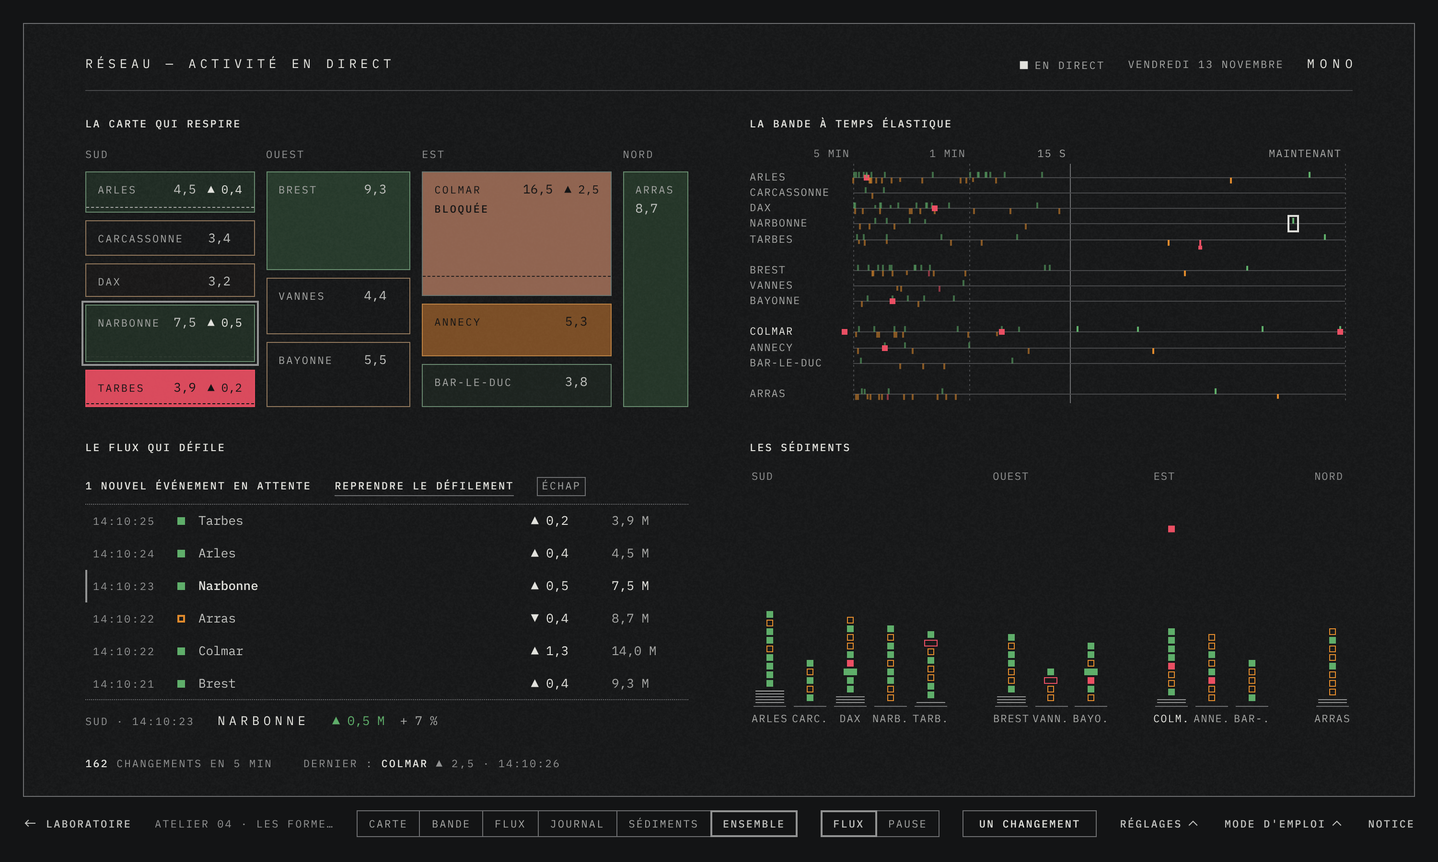
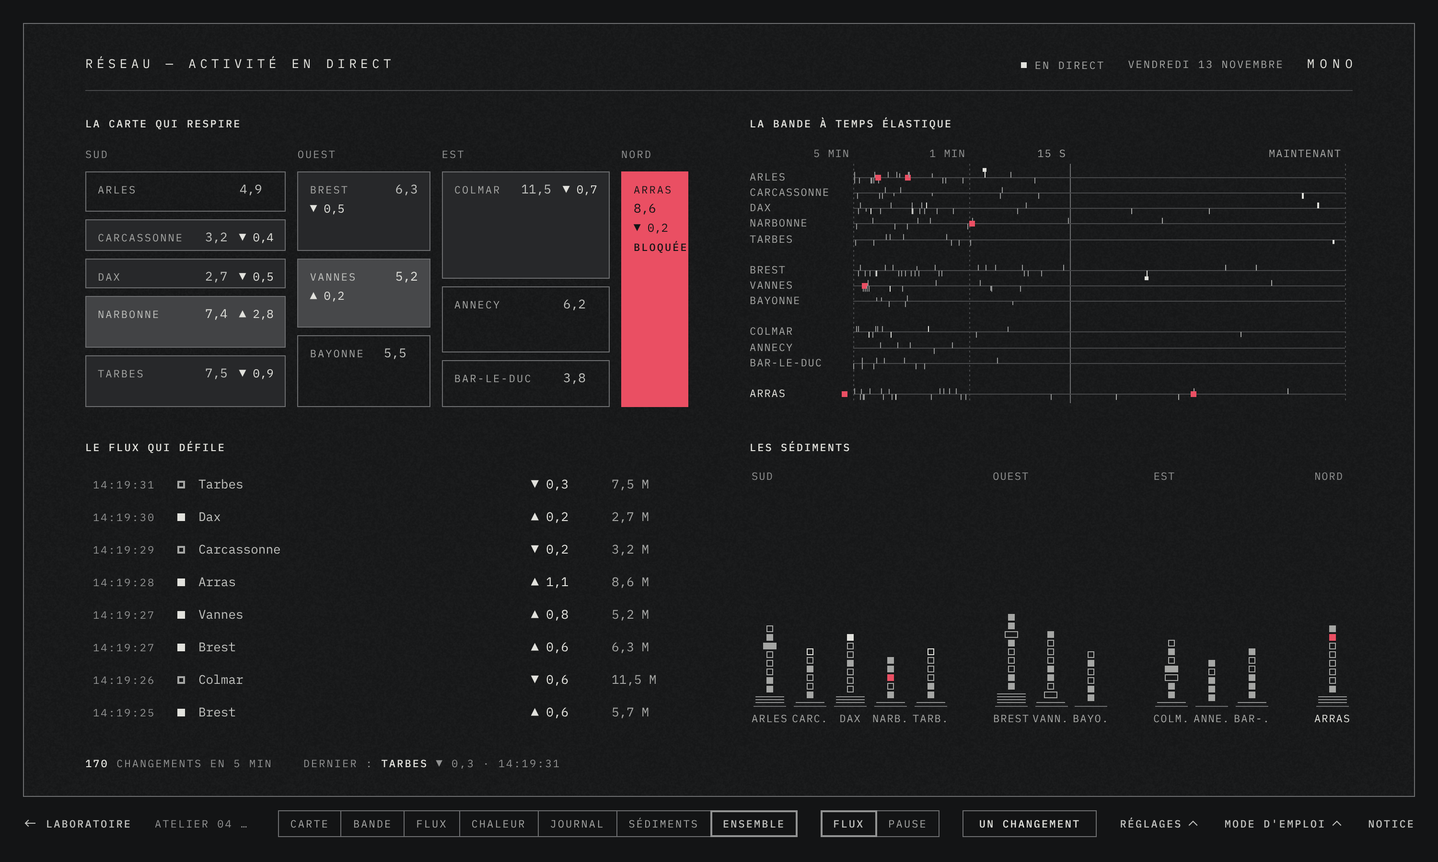
Expérience 04 : teinte du système par défaut, plus de pointillés, matrice de chaleur (D-106)
La carte emploie les tons du système par paliers nets et le signal pour le seul
blocage ; les traits tiretés sont retirés, le mouvement net est écrit dans la
case. Sixième forme : une matrice de chaleur agence × temps.

Claude-Session: https://claude.ai/code/session_01Jzhjh4Bm92CMpkoPPaRiQr

diff --git a/catalogue/assets/labo-formes.js b/catalogue/assets/labo-formes.js
@@ -27,7 +27,7 @@
   const seed = () => { events = []; const now = Date.now(); let t = now - 300000; while (t < now - 1500) { events.push(gen(t, false)); t += 600 + Math.random() * 2600; } };
   const canvas = (el) => { const c = document.createElement('canvas'); c.style.cssText = 'display: block; width: 100%; height: 100%'; el.append(c); const ctx = c.getContext('2d'); const fit = () => { const r = c.getBoundingClientRect(), d = devicePixelRatio || 1; c.width = Math.max(1, Math.round(r.width * d)); c.height = Math.max(1, Math.round(r.height * d)); ctx.setTransform(d, 0, 0, d, 0, 0); c.w = r.width; c.h = r.height; }; new ResizeObserver(fit).observe(c); fit(); return { c, ctx }; };
   const hue = (v) => getComputedStyle(stage).getPropertyValue(v).trim();
-  const ink = () => ({ pos: hue('--x-pos'), neg: hue('--x-neg'), neg2: hue('--x-neg2'), mono: cfg('hue') === 'encre', fg: tok('--fg'), strong: tok('--fg-strong'), soft: tok('--fg-soft'), muted: tok('--fg-muted'), line: tok('--line'), lineS: tok('--line-strong'), signal: tok('--signal'), bg: tok('--bg'), font: getComputedStyle(document.body).fontFamily });
+  const ink = () => ({ pos: hue('--x-pos'), neg: hue('--x-neg'), neg2: hue('--x-neg2'), mono: cfg('hue') === 'systeme', fg: tok('--fg'), s2: tok('--surface-2'), mark: tok('--mark'), strong: tok('--fg-strong'), soft: tok('--fg-soft'), muted: tok('--fg-muted'), line: tok('--line'), lineS: tok('--line-strong'), signal: tok('--signal'), bg: tok('--bg'), font: getComputedStyle(document.body).fontFamily });
   const label = (ctx, K, txt, x, y, color, align = 'left') => { ctx.font = `11px ${K.font}`; ctx.letterSpacing = '1px'; ctx.textAlign = align; ctx.textBaseline = 'middle'; ctx.fillStyle = color; ctx.fillText(txt.toUpperCase(), x, y); };
 
   // ===== 1. La carte qui respire ============================================
@@ -37,15 +37,13 @@
   const Carte = () => { let el, cells = new Map(), cols = new Map(), t = null;
     const size = () => REG.forEach((r) => { cols.get(r).style.flexGrow = A.filter((a) => a.region === r).reduce((s, a) => s + a.v, 0); });
     // La chaleur d'une case : la somme de ses variations récentes, chacune s'effaçant avec une demi-vie de douze secondes.
-    const heat = () => { const now = Date.now(); A.forEach((a) => { const c = cells.get(a.i); let h = 0; for (let k = events.length - 1; k >= 0; k--) { const e = events[k], age = (now - e.t) / 1000; if (age > 60) break; if (e.a === a) h += (e.d > 0 ? 1 : -1) * e.pct * Math.pow(0.5, age / 12); }
-      const m = Math.min(1, Math.abs(h) / 22); c.style.setProperty('--heat', a.blocked ? 0.9 : m.toFixed(3)); c.dataset.dir = a.blocked ? 'block' : h > 0 ? 'up' : m > 0.55 ? 'down2' : 'down'; c.classList.toggle('is-hot', a.blocked || m > 0.5);
-      $('.x-map__st', c).textContent = a.blocked ? 'Bloquée' : a.v < 3 ? 'Sous 3 M' : ''; c.classList.toggle('is-low', !a.blocked && a.v < 3); }); };
-    return { mount(e) { el = e; el.className = 'x-map'; el.innerHTML = REG.map((r) => `<div class="x-map__col" data-r="${r}"><span class="x-map__reg">${r}</span>${A.filter((a) => a.region === r).map((a) => `<div class="x-map__cell" data-a="${a.i}" style="flex-grow: ${a.v}"><i class="x-map__was"></i><span class="x-map__name">${a.name}</span><span class="x-map__val">${fr(a.v)}</span><span class="x-map__d"></span><span class="x-map__st"></span></div>`).join('')}</div>`).join('');
+    const heat = () => { const now = Date.now(); A.forEach((a) => { const c = cells.get(a.i); let h = 0, net = 0; for (let k = events.length - 1; k >= 0; k--) { const e = events[k], age = (now - e.t) / 1000; if (age > 60) break; if (e.a === a) { h += (e.d > 0 ? 1 : -1) * e.pct * Math.pow(0.5, age / 12); if (e.id > 0) net += e.d; } }
+      // Trois paliers nets, pas un dégradé : calme, léger, net, fort.
+      const m = Math.abs(h), lvl = a.blocked ? 3 : m > 26 ? 3 : m > 11 ? 2 : m > 3 ? 1 : 0; c.dataset.level = lvl; c.dataset.dir = a.blocked ? 'block' : h > 0 ? 'up' : lvl === 3 ? 'down2' : 'down';
+      net = +net.toFixed(1); $('.x-map__d', c).textContent = lvl && net ? `${net > 0 ? '▲' : '▼'} ${fr(Math.abs(net))}` : ''; $('.x-map__st', c).textContent = a.blocked ? 'Bloquée' : a.v < 3 ? 'Sous 3 M' : ''; }); };
+    return { mount(e) { el = e; el.className = 'x-map'; el.innerHTML = REG.map((r) => `<div class="x-map__col" data-r="${r}"><span class="x-map__reg">${r}</span>${A.filter((a) => a.region === r).map((a) => `<div class="x-map__cell" data-a="${a.i}" style="flex-grow: ${a.v}" data-level="0"><span class="x-map__name">${a.name}</span><span class="x-map__val">${fr(a.v)}</span><span class="x-map__d"></span><span class="x-map__st"></span></div>`).join('')}</div>`).join('');
         $$('.x-map__col', el).forEach((c) => cols.set(c.dataset.r, c)); $$('.x-map__cell', el).forEach((c) => cells.set(+c.dataset.a, c)); size(); heat(); t = setInterval(heat, 400); if (chosen) this.select(chosen.a); },
-      on(ev) { const c = cells.get(ev.a.i); if (!c) return; c.style.flexGrow = ev.a.v; size(); $('.x-map__val', c).textContent = fr(ev.a.v); const d = $('.x-map__d', c); d.textContent = `${ev.d > 0 ? '▲' : '▼'} ${fr(Math.abs(ev.d))}`; clearTimeout(c.dt); c.dt = setTimeout(() => { d.textContent = ''; }, 5000);
-        // L'ancienne taille, à l'intérieur de la case : elle ne déborde jamais sur une voisine.
-        const was = $('.x-map__was', c); was.style.setProperty('--was', Math.min(1, ev.old / ev.a.v).toFixed(3)); was.classList.remove('is-on'); if (ev.d > 0 && !still) { void was.offsetWidth; was.classList.add('is-on'); }
-        c.classList.toggle('is-shrunk', ev.d < 0); clearTimeout(c.st); c.st = setTimeout(() => c.classList.remove('is-shrunk'), 2600); heat(); },
+      on(ev) { const c = cells.get(ev.a.i); if (!c) return; c.style.flexGrow = ev.a.v; size(); $('.x-map__val', c).textContent = fr(ev.a.v); heat(); },
       select(a) { cells.forEach((c, i) => c.classList.toggle('is-sel', !!a && a.i === i)); }, unmount() { clearInterval(t); } }; };
 
   // ===== 2. La bande à temps élastique ======================================
@@ -107,8 +105,24 @@
         if (chosen) pickEv(chosen); },
       on(ev) { if (paused) { pending.push(ev); note(); } else insert([ev]); }, unmount() { if (chosen) { chosen = null; views.forEach((v) => v.select && v.select(null)); } } }; };
 
+  // ===== 6. La matrice de chaleur ============================================
+  // Une ligne par agence, une colonne par tranche de dix secondes, cinq minutes de large ; le présent est à droite
+  // et la matrice glisse vers la gauche. Le ton d'une case dit combien l'agence a bougé dans la tranche : quatre
+  // paliers nets. Pleine si elle a monté, en contour si elle a baissé : la forme dit le sens, le ton l'ampleur.
+  const Chaleur = () => { let cv, K; const N = 30, STEP = 10000;
+    return { mount(e) { e.className = 'x-canvas'; cv = canvas(e); K = ink(); },
+      frame(now) { const { ctx, c } = cv, W = c.w, H = c.h; ctx.clearRect(0, 0, W, H); const x0 = 108, P = W - x0 - 8, top = 26, rows = A.length + REG.length - 1, rh = (H - top - 6) / rows, cw = P / N, t0 = Math.floor(now / STEP) * STEP, shift = (now - t0) / STEP * cw;
+        const grid = new Map(); for (const ev of events) { const k = Math.floor((t0 - Math.floor(ev.t / STEP) * STEP) / STEP); if (k < 0 || k > N) continue; const key = ev.a.i * 100 + k, g = grid.get(key) || { m: 0, s: 0, block: false }; g.m += ev.pct; g.s += ev.d; g.block = g.block || ev.block; grid.set(key, g); }
+        [[0, 'maintenant'], [6, '1 min'], [18, '3 min'], [30, '5 min']].forEach(([k, txt]) => label(ctx, K, txt, x0 + P - k * cw - 2, 10, k ? K.muted : K.soft, 'right'));
+        ctx.save(); ctx.beginPath(); ctx.rect(x0, top - 2, P, H - top); ctx.clip(); let y = top, reg = null; const rowY = [];
+        A.forEach((a) => { if (reg && reg !== a.region) y += rh; reg = a.region; rowY[a.i] = y; for (let k = 0; k <= N; k++) { const g = grid.get(a.i * 100 + k); if (!g) continue; const lvl = g.m > 40 ? 4 : g.m > 20 ? 3 : g.m > 8 ? 2 : 1, x = x0 + P - (k + 1) * cw - shift + cw, w = Math.max(2, cw - 2), h = Math.max(2, rh - 2), up = g.s >= 0;
+            const tone = K.mono ? [K.s2, K.lineS, K.mark, K.strong][lvl - 1] : (up ? K.pos : lvl > 2 ? K.neg2 : K.neg); ctx.globalAlpha = K.mono ? 1 : [0.32, 0.55, 0.8, 1][lvl - 1];
+            if (up) { ctx.fillStyle = tone; ctx.fillRect(Math.round(x), Math.round(y), Math.round(w), Math.round(h)); } else { ctx.strokeStyle = K.mono && lvl === 1 ? K.lineS : tone; ctx.lineWidth = lvl > 2 ? 2 : 1; const o = ctx.lineWidth / 2; ctx.strokeRect(Math.round(x) + o, Math.round(y) + o, Math.round(w) - ctx.lineWidth, Math.round(h) - ctx.lineWidth); ctx.lineWidth = 1; }
+            ctx.globalAlpha = 1; if (g.block) { ctx.fillStyle = K.signal; ctx.fillRect(Math.round(x + w / 2 - 3), Math.round(y + h / 2 - 3), 6, 6); } } y += rh; }); ctx.restore();
+        A.forEach((a) => { const mid = rowY[a.i] + (rh - 2) / 2; label(ctx, K, a.name, 0, mid, a.blocked || (chosen && chosen.a === a) ? K.strong : K.soft); if (a.blocked) { ctx.fillStyle = K.signal; ctx.fillRect(x0 - 12, mid - 3, 6, 6); } }); } }; };
+
   // ---- Le choix de la forme : une à la fois, ou les quatre côte à côte sur le même flux.
-  const FORMS = { carte: ['La carte qui respire', Carte], bande: ['La bande à temps élastique', Bande], flux: ['Le flux qui défile', Flux], journal: ['Le journal qui se résume', Journal], sediments: ['Les sédiments', Sediments] };
+  const FORMS = { carte: ['La carte qui respire', Carte], bande: ['La bande à temps élastique', Bande], flux: ['Le flux qui défile', Flux], chaleur: ['La matrice de chaleur', Chaleur], journal: ['Le journal qui se résume', Journal], sediments: ['Les sédiments', Sediments] };
   const mount = () => { views.forEach((v) => v.unmount && v.unmount()); views = []; host.innerHTML = ''; const f = cfg('form'), list = f === 'quatre' ? ['carte', 'bande', 'flux', 'sediments'] : [f]; host.classList.toggle('is-four', f === 'quatre');
     list.forEach((k) => { const pane = document.createElement('section'); pane.className = 'x-pane'; pane.innerHTML = `<h4>${FORMS[k][0]}</h4><div></div>`; host.append(pane); const v = FORMS[k][1](); v.mount(pane.lastChild); views.push(v); }); };
   const loop = () => { const now = Date.now(), perf = performance.now(); views.forEach((v) => v.frame && v.frame(now, perf)); requestAnimationFrame(loop); };

diff --git a/catalogue/assets/labo.css b/catalogue/assets/labo.css
@@ -322,28 +322,30 @@
 @media (max-width: 900px) { .x-strip > .x-bar__group { flex: 0 1 auto; min-width: 0; } .x-strip .c-segmented { flex-wrap: wrap; row-gap: 1px; } .x-map { flex-wrap: wrap; } .x-map__col { flex-basis: 40%; min-height: 12rem; } }
 
 /* --- Expérience 04, reprise : la couleur, les teintes, le flux qui défile ---- */
-/* Quatre teintes au choix. Chacune donne une couleur à la hausse, à la baisse, à la forte baisse. */
-.x-stage[data-hue="feu"] { --x-pos: #5fae6a; --x-neg: #e08a2c; --x-neg2: var(--signal); }
+/* La teinte. Par défaut, celle du système : ses tons, par paliers nets, et son signal pour le blocage.
+   Trois autres, hors système, pour comparer : feu, chaud-froid, ambre. */
+.x-stage[data-hue="systeme"] { --x-pos: var(--fg-strong); --x-neg: var(--fg-soft); --x-neg2: var(--fg-soft); }
+.x-stage[data-hue="feu"] { --x-pos: var(--x-p3); --x-neg: var(--x-p2); --x-neg2: var(--x-p1); }
 .x-stage[data-hue="chaudfroid"] { --x-pos: #e0603a; --x-neg: #5a9bd8; --x-neg2: #3f7fc4; }
 .x-stage[data-hue="ambre"] { --x-pos: #d9a13b; --x-neg: #d9a13b; --x-neg2: #d9a13b; }
-.x-stage[data-hue="encre"] { --x-pos: var(--fg-strong); --x-neg: var(--fg-soft); --x-neg2: var(--fg-soft); }
-:root[data-theme="papier"] .x-stage[data-hue="feu"] { --x-pos: #3f8f52; --x-neg: #c9700f; }
 :root[data-theme="papier"] .x-stage[data-hue="chaudfroid"] { --x-pos: #c94a26; --x-neg: #2f76b8; --x-neg2: #1f5f9c; }
 :root[data-theme="papier"] .x-stage[data-hue="ambre"] { --x-pos: #b9820f; --x-neg: #b9820f; --x-neg2: #b9820f; }
 [data-dir="up"] { --x-c: var(--x-pos); } [data-dir="down"] { --x-c: var(--x-neg); } [data-dir="down2"] { --x-c: var(--x-neg2); } [data-dir="block"] { --x-c: var(--signal); }
-/* La carte : la couleur remplit la case selon la chaleur du mouvement récent (--heat, de 0 à 1). */
-.x-map__cell { position: relative; background-color: color-mix(in srgb, var(--x-c, transparent) calc(var(--heat, 0) * 92%), transparent); transition: flex-grow 800ms cubic-bezier(.2, .8, .2, 1), background-color 500ms linear, border-color 400ms; }
-.x-map__cell:not([data-dir="block"]) { border-color: color-mix(in srgb, var(--x-c, var(--line-strong)) calc(30% + var(--heat, 0) * 70%), var(--line-strong)); }
-.x-map__cell.is-hot, .x-map__cell.is-hot .x-map__val, .x-map__cell.is-hot .x-map__d, .x-map__cell.is-hot .x-map__st { color: var(--x-ink); }
-.x-stage[data-hue="encre"] .x-map__cell { background-color: color-mix(in srgb, var(--fg-strong) calc(var(--heat, 0) * 22%), transparent); } .x-stage[data-hue="encre"] .x-map__cell.is-hot, .x-stage[data-hue="encre"] .x-map__cell.is-hot :is(.x-map__val, .x-map__d, .x-map__st) { color: var(--fg-strong); }
-.x-stage[data-hue="encre"] .x-map__cell[data-dir="block"] { background-color: color-mix(in srgb, var(--signal) 85%, transparent); color: var(--x-ink); } .x-stage[data-hue="encre"] .x-map__cell[data-dir="block"] :is(.x-map__val, .x-map__d, .x-map__st) { color: var(--x-ink); }
-.x-map__name, .x-map__val, .x-map__d, .x-map__st { position: relative; z-index: 1; }
+/* La carte. Un filet plein autour de chaque case, toujours ; le fond passe par trois paliers nets. */
+.x-map__cell { position: relative; transition: flex-grow 800ms cubic-bezier(.2, .8, .2, 1), background-color 400ms linear, color 400ms linear; }
+.x-map__name, .x-map__val, .x-map__d, .x-map__st { position: relative; z-index: 1; transition: color 400ms linear; }
 .x-map__st { flex-basis: 100%; text-transform: uppercase; letter-spacing: var(--track-caps); font-size: var(--text-micro); font-weight: var(--weight-medium); color: var(--fg-strong); } .x-map__st:empty { display: none; }
-.x-map__cell.is-low:not(.is-hot) { border-style: dashed; }
-/* L'ancienne taille, DANS la case : un contour tireté parti du coin, qui reste un instant puis s'efface. */
-.x-map__was { position: absolute; z-index: 0; left: 0; top: 0; width: 100%; height: calc(var(--was, 1) * 100%); border-bottom: var(--hairline) dashed currentColor; opacity: 0; pointer-events: none; }
-.x-map__was.is-on { animation: x-thread 3s ease-out 1 both; }
-.x-map__cell.is-shrunk { border-bottom-style: dashed; }
+/* Teinte du système : --surface-2, --line, puis --mark, sur lequel le texte passe au ton du fond. */
+.x-stage[data-hue="systeme"] .x-map__cell[data-level="1"] { background-color: var(--surface-2); }
+.x-stage[data-hue="systeme"] .x-map__cell[data-level="2"] { background-color: var(--line); color: var(--fg); } .x-stage[data-hue="systeme"] .x-map__cell[data-level="2"] :is(.x-map__val, .x-map__d) { color: var(--fg-strong); }
+.x-stage[data-hue="systeme"] .x-map__cell[data-level="3"]:not([data-dir="block"]) { background-color: var(--mark); border-color: var(--mark); } .x-stage[data-hue="systeme"] .x-map__cell[data-level="3"]:not([data-dir="block"]), .x-stage[data-hue="systeme"] .x-map__cell[data-level="3"]:not([data-dir="block"]) :is(.x-map__val, .x-map__d, .x-map__st) { color: var(--inverse-fg); }
+/* Teintes hors système : la couleur du sens, à 30, 60 puis 100 %. */
+.x-stage:not([data-hue="systeme"]) .x-map__cell[data-level="1"] { background-color: color-mix(in srgb, var(--x-c) 30%, var(--bg)); }
+.x-stage:not([data-hue="systeme"]) .x-map__cell[data-level="2"] { background-color: color-mix(in srgb, var(--x-c) 62%, var(--bg)); border-color: color-mix(in srgb, var(--x-c) 62%, var(--bg)); }
+.x-stage:not([data-hue="systeme"]) .x-map__cell[data-level="3"] { background-color: var(--x-c); border-color: var(--x-c); }
+.x-stage:not([data-hue="systeme"]) .x-map__cell:is([data-level="2"], [data-level="3"]), .x-stage:not([data-hue="systeme"]) .x-map__cell:is([data-level="2"], [data-level="3"]) :is(.x-map__val, .x-map__d, .x-map__st) { color: var(--x-ink); }
+/* Bloquée : l'aplat du signal, dans toutes les teintes — c'est celui du système. */
+.x-stage .x-map__cell[data-dir="block"] { background-color: var(--signal); border-color: var(--signal); } .x-stage .x-map__cell[data-dir="block"], .x-stage .x-map__cell[data-dir="block"] :is(.x-map__val, .x-map__d, .x-map__st) { color: var(--on-signal); }
 .x-map__cell.is-sel { outline: var(--stroke) solid var(--selected-line); outline-offset: 2px; z-index: 2; }
 /* Le flux qui défile. */
 .x-feed { display: grid; grid-template-columns: minmax(0, 1.5fr) minmax(16rem, 1fr); column-gap: var(--space-8); overflow: hidden; }
@@ -359,7 +361,7 @@
 .x-feed__kicker { text-transform: uppercase; letter-spacing: var(--track-caps); font-size: var(--text-micro); color: var(--fg-muted); }
 .x-feed__title { text-transform: uppercase; letter-spacing: var(--track-title); font-size: var(--text-large, 1.25rem); color: var(--fg-strong); }
 .x-feed__big { display: flex; align-items: baseline; gap: var(--space-4); font-size: 1.75rem; line-height: 1.2; color: var(--x-c); font-variant-numeric: tabular-nums; } .x-feed__big small { font-size: var(--text-base); color: var(--fg-soft); }
-.x-stage[data-hue="encre"] .x-feed__big { color: var(--fg-strong); }
+.x-stage[data-hue="systeme"] .x-feed__big { color: var(--fg-strong); }
 .x-feed__kv { margin: var(--space-2) 0 var(--space-4); display: grid; gap: var(--space-2); } .x-feed__kv > div { display: grid; grid-template-columns: 7rem minmax(0, 1fr); } .x-feed__kv dt { text-transform: uppercase; letter-spacing: var(--track-caps); font-size: var(--text-micro); color: var(--fg-muted); } .x-feed__kv dd { margin: 0; color: var(--fg); font-variant-numeric: tabular-nums; }
 .x-feed__hist { list-style: none; margin: 0; padding: 0; display: grid; } .x-feed__hist li { display: grid; grid-template-columns: 4.75rem 4.5rem minmax(0, 1fr); column-gap: var(--space-3); padding: 3px 0; font-size: var(--text-small); color: var(--fg-soft); font-variant-numeric: tabular-nums; } .x-feed__hist time { font-size: var(--text-micro); letter-spacing: var(--track-caps); color: var(--fg-muted); } .x-feed__hist li.is-this { color: var(--fg-strong); font-weight: var(--weight-medium); }
 .x-forms.is-four .x-feed { grid-template-columns: minmax(0, 1fr); grid-template-rows: minmax(0, 1fr) auto; } .x-forms.is-four .x-feed__detail { flex-direction: row; flex-wrap: wrap; align-items: baseline; gap: var(--space-2) var(--space-5); padding-top: var(--space-3); border-top: var(--hairline) dotted var(--line-strong); } .x-forms.is-four .x-feed__detail :is(.x-feed__kv, .x-feed__hist, .x-feed__kicker:last-of-type) { display: none; } .x-forms.is-four .x-feed__big { font-size: var(--text-base); } .x-forms.is-four .x-feed__title { font-size: var(--text-base); }

diff --git a/catalogue/laboratoire/formes-du-direct.html b/catalogue/laboratoire/formes-du-direct.html
@@ -9,7 +9,7 @@
   <script src="../assets/prefs.js"></script>
 </head>
 <body class="l-desk x-atelier">
-  <div class="x-stage" id="x4" data-flow="marche" data-pace="calme" data-form="carte" data-hue="feu">
+  <div class="x-stage" id="x4" data-flow="marche" data-pace="calme" data-form="carte" data-hue="systeme">
     <div class="l-shell x-screen">
       <header class="c-masthead">
         <div class="c-masthead__title">Réseau — Activité en direct</div>
@@ -21,22 +21,23 @@
     <footer class="x-strip">
       <a class="x-strip__back" href="../laboratoire.html#formes-du-direct"><i class="c-icon i-arrow-left" aria-hidden="true"></i>Laboratoire</a>
       <span class="x-strip__name">Atelier 04 · Les formes du direct</span>
-      <span class="x-bar__group"><span class="c-segmented" role="group" aria-label="Forme"><button class="c-segmented__item" type="button" data-set-form="carte" aria-pressed="true">Carte</button><button class="c-segmented__item" type="button" data-set-form="bande" aria-pressed="false">Bande</button><button class="c-segmented__item" type="button" data-set-form="flux" aria-pressed="false">Flux</button><button class="c-segmented__item" type="button" data-set-form="journal" aria-pressed="false">Journal</button><button class="c-segmented__item" type="button" data-set-form="sediments" aria-pressed="false">Sédiments</button><button class="c-segmented__item" type="button" data-set-form="quatre" aria-pressed="false">Ensemble</button></span></span>
+      <span class="x-bar__group"><span class="c-segmented" role="group" aria-label="Forme"><button class="c-segmented__item" type="button" data-set-form="carte" aria-pressed="true">Carte</button><button class="c-segmented__item" type="button" data-set-form="bande" aria-pressed="false">Bande</button><button class="c-segmented__item" type="button" data-set-form="flux" aria-pressed="false">Flux</button><button class="c-segmented__item" type="button" data-set-form="chaleur" aria-pressed="false">Chaleur</button><button class="c-segmented__item" type="button" data-set-form="journal" aria-pressed="false">Journal</button><button class="c-segmented__item" type="button" data-set-form="sediments" aria-pressed="false">Sédiments</button><button class="c-segmented__item" type="button" data-set-form="quatre" aria-pressed="false">Ensemble</button></span></span>
       <span class="x-bar__group"><span class="c-segmented" role="group" aria-label="Flux"><button class="c-segmented__item" type="button" data-set-flow="marche" aria-pressed="true">Flux</button><button class="c-segmented__item" type="button" data-set-flow="pause" aria-pressed="false">Pause</button></span></span>
       <button class="c-button" type="button" data-once>Un changement</button>
       <details class="x-pop"><summary>Réglages<i class="c-icon i-chevron-up" aria-hidden="true"></i></summary>
         <div class="x-pop__panel">
-          <span class="x-bar__group"><span class="x-bar__label">Teinte</span><span class="c-segmented" role="group" aria-label="Teinte"><button class="c-segmented__item" type="button" data-set-hue="feu" aria-pressed="true">Feu</button><button class="c-segmented__item" type="button" data-set-hue="chaudfroid" aria-pressed="false">Chaud-froid</button><button class="c-segmented__item" type="button" data-set-hue="ambre" aria-pressed="false">Ambre</button><button class="c-segmented__item" type="button" data-set-hue="encre" aria-pressed="false">Encre</button></span></span>
+          <span class="x-bar__group"><span class="x-bar__label">Teinte</span><span class="c-segmented" role="group" aria-label="Teinte"><button class="c-segmented__item" type="button" data-set-hue="systeme" aria-pressed="true">Système</button><button class="c-segmented__item" type="button" data-set-hue="feu" aria-pressed="false">Feu</button><button class="c-segmented__item" type="button" data-set-hue="chaudfroid" aria-pressed="false">Chaud-froid</button><button class="c-segmented__item" type="button" data-set-hue="ambre" aria-pressed="false">Ambre</button></span></span>
           <span class="x-bar__group"><span class="x-bar__label">Rythme du flux</span><span class="c-segmented" role="group" aria-label="Rythme"><button class="c-segmented__item" type="button" data-set-pace="calme" aria-pressed="true">Calme</button><button class="c-segmented__item" type="button" data-set-pace="vif" aria-pressed="false">Vif</button><button class="c-segmented__item" type="button" data-set-pace="rafale" aria-pressed="false">Rafale</button></span></span>
         </div></details>
       <details class="x-pop"><summary>Mode d'emploi<i class="c-icon i-chevron-up" aria-hidden="true"></i></summary>
         <div class="x-pop__panel"><ol class="x-steps">
-          <li class="is-on"><b>Carte</b>La surface d'une case est la prime de l'agence. La couleur dit le mouvement récent : sa teinte le sens, son intensité l'ampleur ; elle s'éteint en une demi-minute. Une case qui vient de grandir garde, dedans, le trait de son ancienne taille.</li>
+          <li class="is-on"><b>Carte</b>La surface d'une case est la prime de l'agence. Son ton dit le mouvement récent, en trois paliers ; il retombe en une demi-minute. Le mouvement net de la dernière minute est écrit dans la case. Une agence bloquée est pleine, au signal.</li>
           <li class="is-on"><b>Bande</b>Le temps coule vers la gauche. À droite du trait plein, les quinze dernières secondes, trait par trait ; à gauche, cinq minutes serrées, qui se lisent comme une densité.</li>
           <li class="is-on"><b>Flux</b>Les événements entrent par le haut. Cliquez-en un : le défilement s'arrête, l'événement se lit en entier à côté, et son agence est désignée dans la carte. Flèches pour parcourir, Échap pour reprendre.</li>
+          <li class="is-on"><b>Chaleur</b>Une ligne par agence, une colonne par tranche de dix secondes, le présent à droite. Le ton dit combien l'agence a bougé ; pleine si elle a monté, en contour si elle a baissé.</li>
           <li class="is-on"><b>Journal</b>Une ligne par événement, douze secondes. Puis les lignes d'une agence se fondent en une seule ; après une minute, celles d'une région. Les compteurs restent justes.</li>
           <li class="is-on"><b>Sédiments</b>Chaque événement est un grain qui tombe : plein s'il monte, vide s'il descend. Les grains anciens se tassent en strates.</li>
-          <li class="is-on"><b>Ensemble</b>Le même flux sous quatre formes à la fois. Changez la teinte dans les réglages ; passez en « Vif » ou « Rafale » : laquelle tient le mieux ?</li>
+          <li class="is-on"><b>Ensemble</b>Le même flux sous quatre formes à la fois. Par défaut, la teinte est celle du système ; trois autres, hors système, sont dans les réglages ; passez en « Vif » ou « Rafale » : laquelle tient le mieux ?</li>
         </ol></div></details>
       <a class="x-strip__back" href="../laboratoire.html#formes-du-direct">Notice</a>
     </footer>
